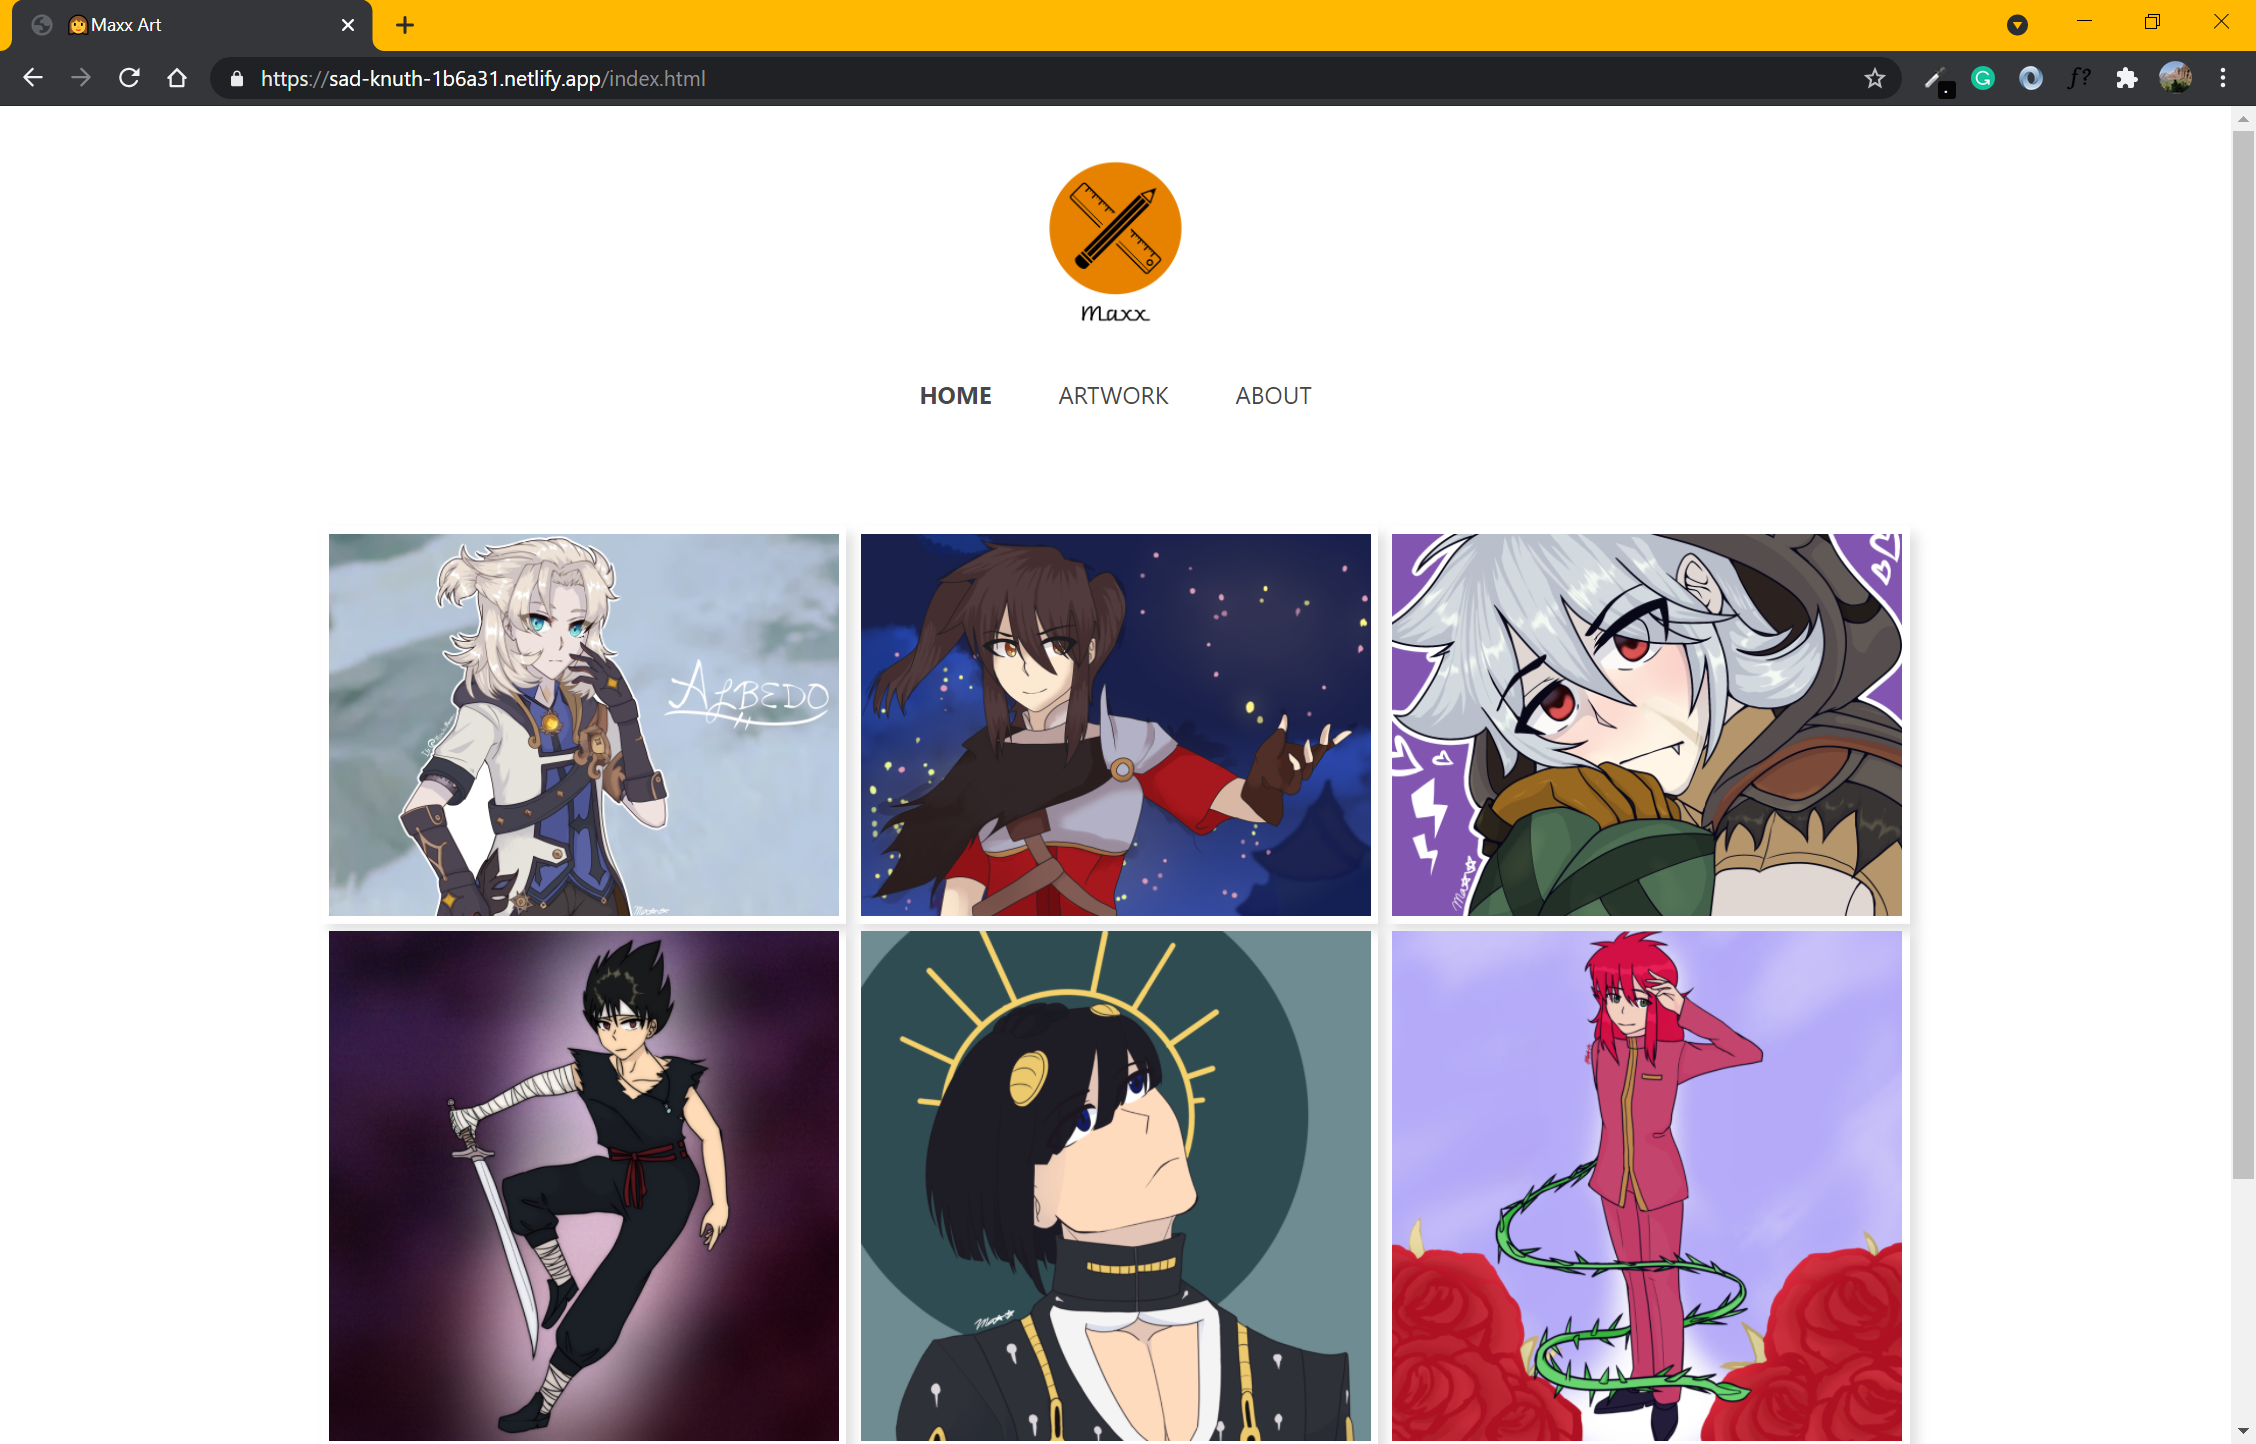
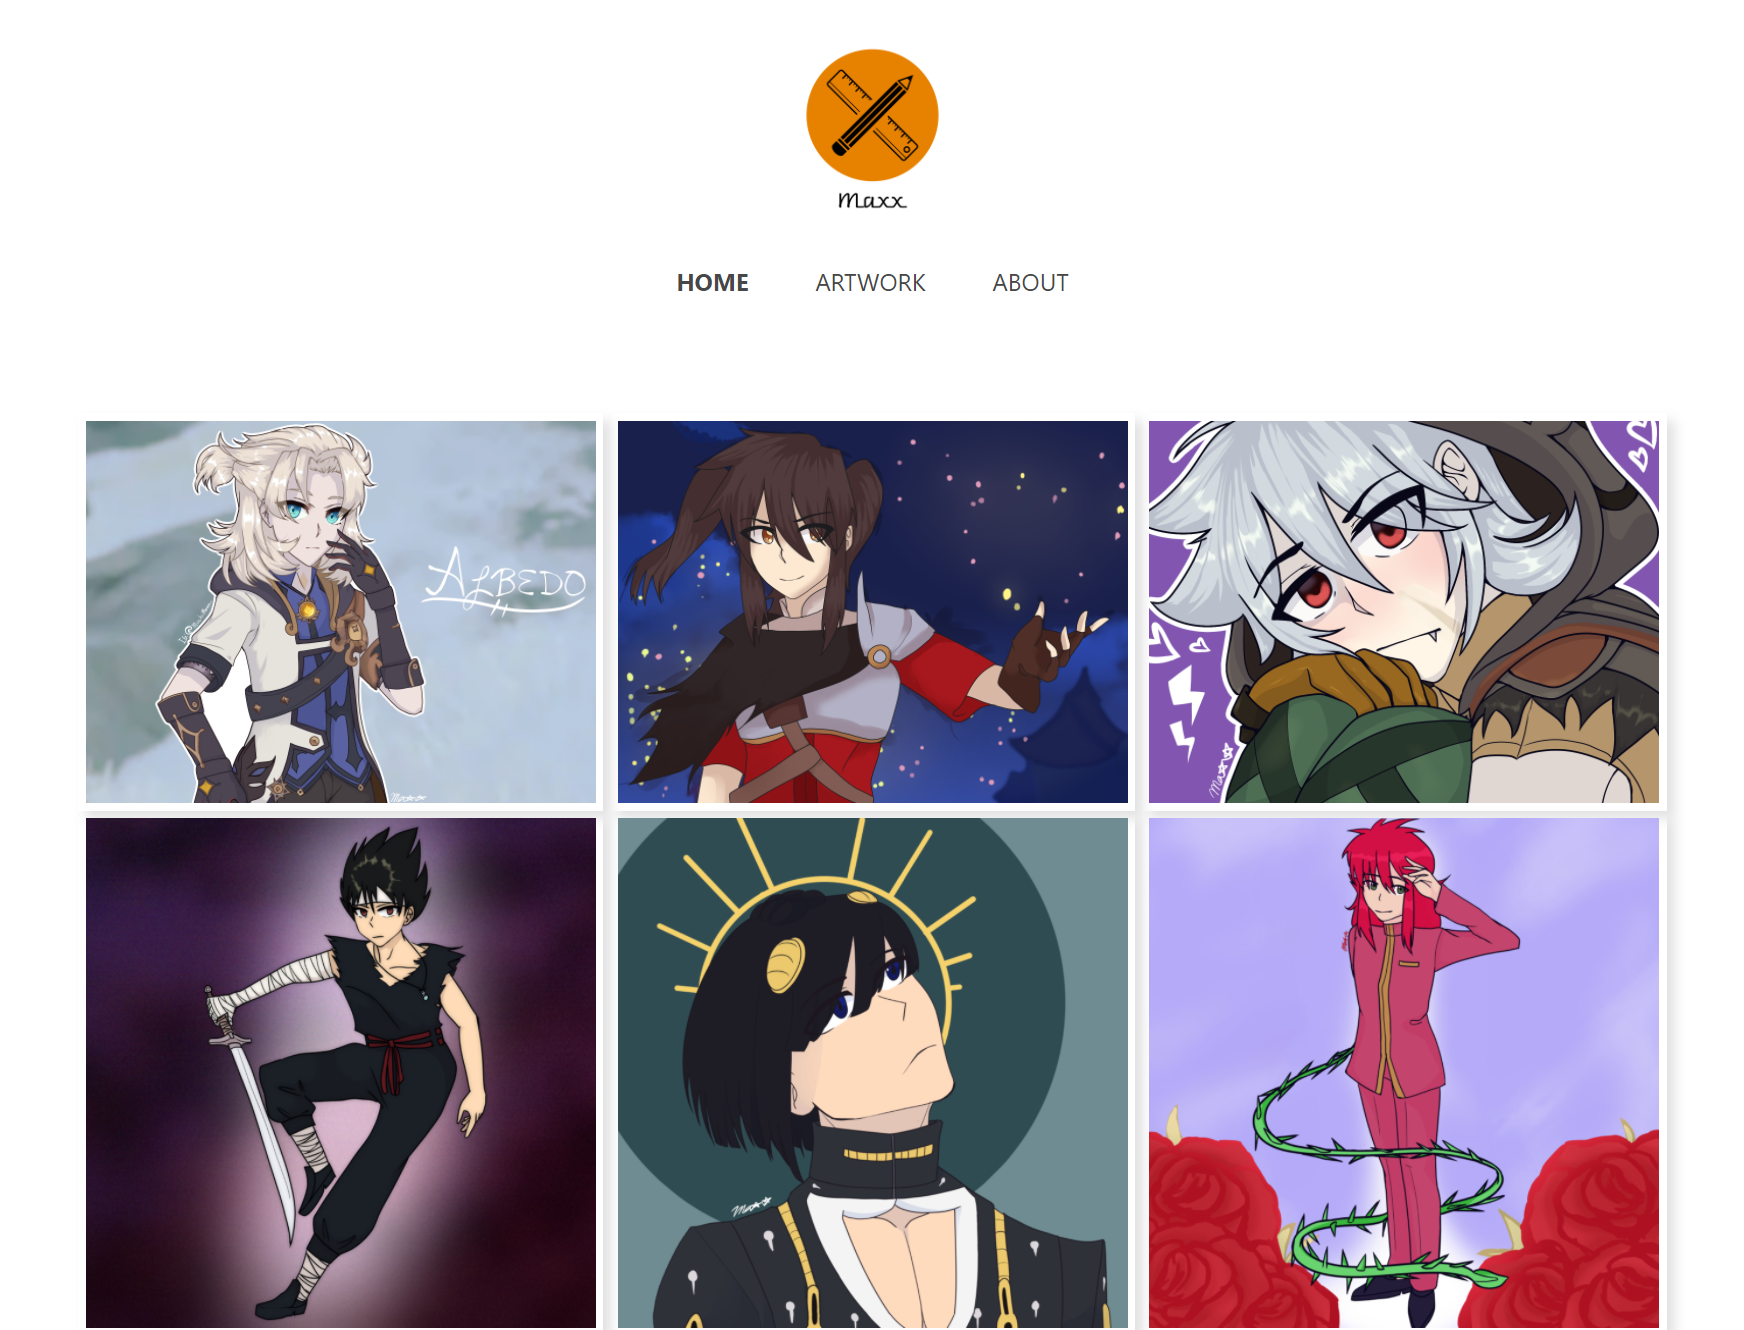
Fixed styling for responsive

diff --git a/src/styles.css b/src/styles.css
@@ -55,7 +55,7 @@ body {
 
 .navbar.sticky .logo a {
   font-family: monospace;
-  color: #fff;
+  color: #fd2155;
   text-decoration: none;
 }
 
@@ -104,6 +104,7 @@ body {
 
 .home .home-section .home-content {
   text-align: center;
+  padding: 0 5px;
 }
 
 .home .home-content .text1 {
@@ -117,9 +118,11 @@ body {
   font-family: "Sora", sans-serif;
   color: rgb(255, 255, 255);
   font-weight: bolder;
+  padding: 0 10px;
 }
 
 .home .home-content .text3 {
+  padding: 0 10px;
   font-size: 3em;
   font-family: "Sora", sans-serif;
   color: #b1acac;
@@ -197,41 +200,51 @@ section {
   display: flex;
   align-items: center;
   justify-content: space-between;
-  width: 90%;
+  width: 85vw;
   text-align: center;
   margin: 0 auto;
   background: #0e0e0e;
 }
+
 .projects .card {
   border: none;
   background: rgba(44, 44, 44, 0.5);
-  margin: 0 10px;
+  margin: 15px 10px;
   padding: 15px 10px;
   border-radius: 15px;
-  display: block;
+}
+
+.projects .card:hover {
+  transform: scale(1.05);
 }
 
 .projects .weather-app-ss {
-  margin: 10px auto;
+  margin: 10px 10px;
+  padding: 5px 20px;
 }
 
 .projects img {
+  width: calc(95% - 10px);
   border-radius: 10px;
 }
 
 .projects img:hover {
-  width: 305px;
+  transform: scale(1.05);
   opacity: 0.5;
 }
 
 .projects h1 {
-  font-size: 28px;
+  font-size: 35px;
   color: #fff;
   font-family: "Sora", sans-serif;
+  padding: 10px;
 }
 
 .projects p {
+  padding: 0 15px;
   color: #b1acac;
+  font-size: 18px;
+  text-align: justify;
 }
 
 .projects .card:hover {
@@ -253,6 +266,22 @@ footer {
 */
 
 /* media query start */
+@media (max-width: 1500px) {
+  .projects .projects-content {
+    display: block;
+    margin: 0 auto;
+    width: calc(70% - 10px);
+    text-align: center;
+  }
+  .projects h1 {
+    font-size: 30px;
+  }
+
+  .projects p {
+    font-size: 17px;
+  }
+}
+
 @media (max-width: 1400px) {
   .about-content {
     display: block;
@@ -285,7 +314,7 @@ footer {
   }
   .navbar .menu {
     position: fixed;
-    height: 100vh;
+    height: 90vh;
     width: 100%;
     left: -100%;
     top: 0;
@@ -324,5 +353,57 @@ footer {
   }
   .home .home-content {
     font-size: smaller;
+  }
+
+  .projects .projects-content {
+    display: block;
+    margin: 0 auto;
+    width: calc(70% - 10px);
+    text-align: center;
+  }
+  .projects h1 {
+    font-size: 20px;
+  }
+
+  .projects p {
+    font-size: 15px;
+  }
+}
+
+@media (max-width: 450px) {
+  .projects .projects-content {
+    display: block;
+    margin: 0 auto;
+    width: calc(85% - 10px);
+    text-align: center;
+  }
+
+  .projects .weather-app-ss {
+    margin: 5px auto;
+    padding: 5px 5px;
+  }
+
+  .projects .weather-app-description {
+    margin: 2px 2px;
+  }
+  .projects h1 {
+    font-size: 18px;
+    margin: 0;
+  }
+
+  .projects p {
+    font-size: 14px;
+  }
+}
+
+@media (max-width: 360px) {
+  .home .home-content .text1 {
+    font-size: 15px;
+  }
+  .home .home-content .text2 {
+    font-size: 3.9em;
+  }
+  .home .home-content .text3 {
+    font-size: 23px;
   }
 }

diff --git a/index.html b/index.html
@@ -20,7 +20,7 @@
   <nav class="navbar">
     <div class="header">
       <div class="logo">
-        <a href="#">AHRIANE </a><span>RAMOS</span>
+        <a href="#">AHRiANE </a><span>RAMOS</span>
       </div>
       <ul class="menu">
         <li id="about">
@@ -122,7 +122,7 @@
           <div class="box-weather-app">
             <div class="weather-app-ss">
               <a href="https://thirsty-nobel-67b877.netlify.app/" target="_blank" title="Weather App">
-                <img src="img/weather app ss.PNG" alt="Weather App JS" width=300>
+                <img src="img/weather app ss.PNG" alt="Weather App JS" width=300 class="card-img-top">
               </a>
             </div>
             <div class="weather-app-description">
@@ -142,7 +142,7 @@
           <div class="box-weather-app">
             <div class="weather-app-ss">
               <a href="https://thirsty-nobel-67b877.netlify.app/" target="_blank" title="Weather App">
-                <img src="img/weather app ss.PNG" alt="Weather App JS" width=300>
+                <img src="img/weather app ss.PNG" alt="Weather App JS" width=300 class="card-img-top">
               </a>
             </div>
             <div class="weather-app-description">
@@ -162,7 +162,7 @@
           <div class="box-weather-app">
             <div class="weather-app-ss">
               <a href="https://thirsty-nobel-67b877.netlify.app/" target="_blank" title="Weather App">
-                <img src="img/weather app ss.PNG" alt="Weather App JS" width=300>
+                <img src="img/weather app ss.PNG" alt="Weather App JS" width=300 class="card-img-top">
               </a>
             </div>
             <div class="weather-app-description">
